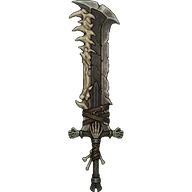
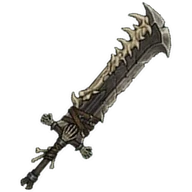
Forja: arte própria das armas de 2★ e do Grizzharn (15 partes × 6 categorias) e giro das peças longas para a diagonal
Claude-Session: https://claude.ai/code/session_016SswG1SZK2JExcHiYwawJu

Changed region(s): [[0.0938, 0.0, 0.9062, 1.0]]

diff --git a/src/assets/armasCriatura.ts b/src/assets/armasCriatura.ts
@@ -73,10 +73,101 @@ import img_rato_pestilento_lanca from './images/forja/armas-criatura/rato-pestil
 import img_rato_pestilento_espadaEscudo from './images/forja/armas-criatura/rato-pestilento-espadaEscudo.webp';
 import img_rato_pestilento_grimorio from './images/forja/armas-criatura/rato-pestilento-grimorio.webp';
 import img_rato_pestilento_cajado from './images/forja/armas-criatura/rato-pestilento-cajado.webp';
+import img_vargheist_principal_espadaGrande from './images/forja/armas-criatura/vargheist-principal-espadaGrande.webp';
+import img_vargheist_principal_katana from './images/forja/armas-criatura/vargheist-principal-katana.webp';
+import img_vargheist_principal_lanca from './images/forja/armas-criatura/vargheist-principal-lanca.webp';
+import img_vargheist_principal_espadaEscudo from './images/forja/armas-criatura/vargheist-principal-espadaEscudo.webp';
+import img_vargheist_principal_grimorio from './images/forja/armas-criatura/vargheist-principal-grimorio.webp';
+import img_vargheist_principal_cajado from './images/forja/armas-criatura/vargheist-principal-cajado.webp';
+import img_vargheist_vulcanico_espadaGrande from './images/forja/armas-criatura/vargheist-vulcanico-espadaGrande.webp';
+import img_vargheist_vulcanico_katana from './images/forja/armas-criatura/vargheist-vulcanico-katana.webp';
+import img_vargheist_vulcanico_lanca from './images/forja/armas-criatura/vargheist-vulcanico-lanca.webp';
+import img_vargheist_vulcanico_espadaEscudo from './images/forja/armas-criatura/vargheist-vulcanico-espadaEscudo.webp';
+import img_vargheist_vulcanico_grimorio from './images/forja/armas-criatura/vargheist-vulcanico-grimorio.webp';
+import img_vargheist_vulcanico_cajado from './images/forja/armas-criatura/vargheist-vulcanico-cajado.webp';
+import img_vargheist_albino_espadaGrande from './images/forja/armas-criatura/vargheist-albino-espadaGrande.webp';
+import img_vargheist_albino_katana from './images/forja/armas-criatura/vargheist-albino-katana.webp';
+import img_vargheist_albino_lanca from './images/forja/armas-criatura/vargheist-albino-lanca.webp';
+import img_vargheist_albino_espadaEscudo from './images/forja/armas-criatura/vargheist-albino-espadaEscudo.webp';
+import img_vargheist_albino_grimorio from './images/forja/armas-criatura/vargheist-albino-grimorio.webp';
+import img_vargheist_albino_cajado from './images/forja/armas-criatura/vargheist-albino-cajado.webp';
+import img_noctyrr_principal_espadaGrande from './images/forja/armas-criatura/noctyrr-principal-espadaGrande.webp';
+import img_noctyrr_principal_katana from './images/forja/armas-criatura/noctyrr-principal-katana.webp';
+import img_noctyrr_principal_lanca from './images/forja/armas-criatura/noctyrr-principal-lanca.webp';
+import img_noctyrr_principal_espadaEscudo from './images/forja/armas-criatura/noctyrr-principal-espadaEscudo.webp';
+import img_noctyrr_principal_grimorio from './images/forja/armas-criatura/noctyrr-principal-grimorio.webp';
+import img_noctyrr_principal_cajado from './images/forja/armas-criatura/noctyrr-principal-cajado.webp';
+import img_noctyrr_tempestuoso_espadaGrande from './images/forja/armas-criatura/noctyrr-tempestuoso-espadaGrande.webp';
+import img_noctyrr_tempestuoso_katana from './images/forja/armas-criatura/noctyrr-tempestuoso-katana.webp';
+import img_noctyrr_tempestuoso_lanca from './images/forja/armas-criatura/noctyrr-tempestuoso-lanca.webp';
+import img_noctyrr_tempestuoso_espadaEscudo from './images/forja/armas-criatura/noctyrr-tempestuoso-espadaEscudo.webp';
+import img_noctyrr_tempestuoso_grimorio from './images/forja/armas-criatura/noctyrr-tempestuoso-grimorio.webp';
+import img_noctyrr_tempestuoso_cajado from './images/forja/armas-criatura/noctyrr-tempestuoso-cajado.webp';
+import img_noctyrr_abissal_espadaGrande from './images/forja/armas-criatura/noctyrr-abissal-espadaGrande.webp';
+import img_noctyrr_abissal_katana from './images/forja/armas-criatura/noctyrr-abissal-katana.webp';
+import img_noctyrr_abissal_lanca from './images/forja/armas-criatura/noctyrr-abissal-lanca.webp';
+import img_noctyrr_abissal_espadaEscudo from './images/forja/armas-criatura/noctyrr-abissal-espadaEscudo.webp';
+import img_noctyrr_abissal_grimorio from './images/forja/armas-criatura/noctyrr-abissal-grimorio.webp';
+import img_noctyrr_abissal_cajado from './images/forja/armas-criatura/noctyrr-abissal-cajado.webp';
+import img_murdrax_principal_espadaGrande from './images/forja/armas-criatura/murdrax-principal-espadaGrande.webp';
+import img_murdrax_principal_katana from './images/forja/armas-criatura/murdrax-principal-katana.webp';
+import img_murdrax_principal_lanca from './images/forja/armas-criatura/murdrax-principal-lanca.webp';
+import img_murdrax_principal_espadaEscudo from './images/forja/armas-criatura/murdrax-principal-espadaEscudo.webp';
+import img_murdrax_principal_grimorio from './images/forja/armas-criatura/murdrax-principal-grimorio.webp';
+import img_murdrax_principal_cajado from './images/forja/armas-criatura/murdrax-principal-cajado.webp';
+import img_murdrax_corrosivo_espadaGrande from './images/forja/armas-criatura/murdrax-corrosivo-espadaGrande.webp';
+import img_murdrax_corrosivo_katana from './images/forja/armas-criatura/murdrax-corrosivo-katana.webp';
+import img_murdrax_corrosivo_lanca from './images/forja/armas-criatura/murdrax-corrosivo-lanca.webp';
+import img_murdrax_corrosivo_espadaEscudo from './images/forja/armas-criatura/murdrax-corrosivo-espadaEscudo.webp';
+import img_murdrax_corrosivo_grimorio from './images/forja/armas-criatura/murdrax-corrosivo-grimorio.webp';
+import img_murdrax_corrosivo_cajado from './images/forja/armas-criatura/murdrax-corrosivo-cajado.webp';
+import img_murdrax_basalto_espadaGrande from './images/forja/armas-criatura/murdrax-basalto-espadaGrande.webp';
+import img_murdrax_basalto_katana from './images/forja/armas-criatura/murdrax-basalto-katana.webp';
+import img_murdrax_basalto_lanca from './images/forja/armas-criatura/murdrax-basalto-lanca.webp';
+import img_murdrax_basalto_espadaEscudo from './images/forja/armas-criatura/murdrax-basalto-espadaEscudo.webp';
+import img_murdrax_basalto_grimorio from './images/forja/armas-criatura/murdrax-basalto-grimorio.webp';
+import img_murdrax_basalto_cajado from './images/forja/armas-criatura/murdrax-basalto-cajado.webp';
+import img_alfa_principal_espadaGrande from './images/forja/armas-criatura/alfa-principal-espadaGrande.webp';
+import img_alfa_principal_katana from './images/forja/armas-criatura/alfa-principal-katana.webp';
+import img_alfa_principal_lanca from './images/forja/armas-criatura/alfa-principal-lanca.webp';
+import img_alfa_principal_espadaEscudo from './images/forja/armas-criatura/alfa-principal-espadaEscudo.webp';
+import img_alfa_principal_grimorio from './images/forja/armas-criatura/alfa-principal-grimorio.webp';
+import img_alfa_principal_cajado from './images/forja/armas-criatura/alfa-principal-cajado.webp';
+import img_alfa_carmesim_espadaGrande from './images/forja/armas-criatura/alfa-carmesim-espadaGrande.webp';
+import img_alfa_carmesim_katana from './images/forja/armas-criatura/alfa-carmesim-katana.webp';
+import img_alfa_carmesim_lanca from './images/forja/armas-criatura/alfa-carmesim-lanca.webp';
+import img_alfa_carmesim_espadaEscudo from './images/forja/armas-criatura/alfa-carmesim-espadaEscudo.webp';
+import img_alfa_carmesim_grimorio from './images/forja/armas-criatura/alfa-carmesim-grimorio.webp';
+import img_alfa_carmesim_cajado from './images/forja/armas-criatura/alfa-carmesim-cajado.webp';
+import img_alfa_vulcanico_espadaGrande from './images/forja/armas-criatura/alfa-vulcanico-espadaGrande.webp';
+import img_alfa_vulcanico_katana from './images/forja/armas-criatura/alfa-vulcanico-katana.webp';
+import img_alfa_vulcanico_lanca from './images/forja/armas-criatura/alfa-vulcanico-lanca.webp';
+import img_alfa_vulcanico_espadaEscudo from './images/forja/armas-criatura/alfa-vulcanico-espadaEscudo.webp';
+import img_alfa_vulcanico_grimorio from './images/forja/armas-criatura/alfa-vulcanico-grimorio.webp';
+import img_alfa_vulcanico_cajado from './images/forja/armas-criatura/alfa-vulcanico-cajado.webp';
+import img_grizzharn_principal_espadaGrande from './images/forja/armas-criatura/grizzharn-principal-espadaGrande.webp';
+import img_grizzharn_principal_katana from './images/forja/armas-criatura/grizzharn-principal-katana.webp';
+import img_grizzharn_principal_lanca from './images/forja/armas-criatura/grizzharn-principal-lanca.webp';
+import img_grizzharn_principal_espadaEscudo from './images/forja/armas-criatura/grizzharn-principal-espadaEscudo.webp';
+import img_grizzharn_principal_grimorio from './images/forja/armas-criatura/grizzharn-principal-grimorio.webp';
+import img_grizzharn_principal_cajado from './images/forja/armas-criatura/grizzharn-principal-cajado.webp';
+import img_grizzharn_glacial_espadaGrande from './images/forja/armas-criatura/grizzharn-glacial-espadaGrande.webp';
+import img_grizzharn_glacial_katana from './images/forja/armas-criatura/grizzharn-glacial-katana.webp';
+import img_grizzharn_glacial_lanca from './images/forja/armas-criatura/grizzharn-glacial-lanca.webp';
+import img_grizzharn_glacial_espadaEscudo from './images/forja/armas-criatura/grizzharn-glacial-espadaEscudo.webp';
+import img_grizzharn_glacial_grimorio from './images/forja/armas-criatura/grizzharn-glacial-grimorio.webp';
+import img_grizzharn_glacial_cajado from './images/forja/armas-criatura/grizzharn-glacial-cajado.webp';
+import img_grizzharn_ancestral_espadaGrande from './images/forja/armas-criatura/grizzharn-ancestral-espadaGrande.webp';
+import img_grizzharn_ancestral_katana from './images/forja/armas-criatura/grizzharn-ancestral-katana.webp';
+import img_grizzharn_ancestral_lanca from './images/forja/armas-criatura/grizzharn-ancestral-lanca.webp';
+import img_grizzharn_ancestral_espadaEscudo from './images/forja/armas-criatura/grizzharn-ancestral-espadaEscudo.webp';
+import img_grizzharn_ancestral_grimorio from './images/forja/armas-criatura/grizzharn-ancestral-grimorio.webp';
+import img_grizzharn_ancestral_cajado from './images/forja/armas-criatura/grizzharn-ancestral-cajado.webp';
 
 /**
  * A arte de cada arma, por criatura e parte (o principal ou a subespécie) e por categoria. As duas armas da mesma parte
- * usam a mesma arte por enquanto (decisão provisória, a confirmar). As armas de 2★ em diante usam o ícone da categoria.
+ * usam a mesma arte por enquanto (decisão provisória, a confirmar). Prontas: 1★, 2★ e o Grizzharn (3★); as demais
+ * armas usam o ícone da categoria.
  */
 const ARTE: Readonly<Record<string, Readonly<Record<CategoriaArma, string>>>> = {
   'urso-gigante:principal': { espadaGrande: srcDaImagem(img_urso_principal_espadaGrande), katana: srcDaImagem(img_urso_principal_katana), lanca: srcDaImagem(img_urso_principal_lanca), espadaEscudo: srcDaImagem(img_urso_principal_espadaEscudo), grimorio: srcDaImagem(img_urso_principal_grimorio), cajado: srcDaImagem(img_urso_principal_cajado) },
@@ -91,6 +182,21 @@ const ARTE: Readonly<Record<string, Readonly<Record<CategoriaArma, string>>>> = 
   'rato-da-floresta:principal': { espadaGrande: srcDaImagem(img_rato_principal_espadaGrande), katana: srcDaImagem(img_rato_principal_katana), lanca: srcDaImagem(img_rato_principal_lanca), espadaEscudo: srcDaImagem(img_rato_principal_espadaEscudo), grimorio: srcDaImagem(img_rato_principal_grimorio), cajado: srcDaImagem(img_rato_principal_cajado) },
   'rato-da-floresta:rato-das-cinzas': { espadaGrande: srcDaImagem(img_rato_cinzas_espadaGrande), katana: srcDaImagem(img_rato_cinzas_katana), lanca: srcDaImagem(img_rato_cinzas_lanca), espadaEscudo: srcDaImagem(img_rato_cinzas_espadaEscudo), grimorio: srcDaImagem(img_rato_cinzas_grimorio), cajado: srcDaImagem(img_rato_cinzas_cajado) },
   'rato-da-floresta:rato-pestilento': { espadaGrande: srcDaImagem(img_rato_pestilento_espadaGrande), katana: srcDaImagem(img_rato_pestilento_katana), lanca: srcDaImagem(img_rato_pestilento_lanca), espadaEscudo: srcDaImagem(img_rato_pestilento_espadaEscudo), grimorio: srcDaImagem(img_rato_pestilento_grimorio), cajado: srcDaImagem(img_rato_pestilento_cajado) },
+  'vargheist:principal': { espadaGrande: srcDaImagem(img_vargheist_principal_espadaGrande), katana: srcDaImagem(img_vargheist_principal_katana), lanca: srcDaImagem(img_vargheist_principal_lanca), espadaEscudo: srcDaImagem(img_vargheist_principal_espadaEscudo), grimorio: srcDaImagem(img_vargheist_principal_grimorio), cajado: srcDaImagem(img_vargheist_principal_cajado) },
+  'vargheist:vargheist-vulcanico': { espadaGrande: srcDaImagem(img_vargheist_vulcanico_espadaGrande), katana: srcDaImagem(img_vargheist_vulcanico_katana), lanca: srcDaImagem(img_vargheist_vulcanico_lanca), espadaEscudo: srcDaImagem(img_vargheist_vulcanico_espadaEscudo), grimorio: srcDaImagem(img_vargheist_vulcanico_grimorio), cajado: srcDaImagem(img_vargheist_vulcanico_cajado) },
+  'vargheist:vargheist-albino': { espadaGrande: srcDaImagem(img_vargheist_albino_espadaGrande), katana: srcDaImagem(img_vargheist_albino_katana), lanca: srcDaImagem(img_vargheist_albino_lanca), espadaEscudo: srcDaImagem(img_vargheist_albino_espadaEscudo), grimorio: srcDaImagem(img_vargheist_albino_grimorio), cajado: srcDaImagem(img_vargheist_albino_cajado) },
+  'noctyrr:principal': { espadaGrande: srcDaImagem(img_noctyrr_principal_espadaGrande), katana: srcDaImagem(img_noctyrr_principal_katana), lanca: srcDaImagem(img_noctyrr_principal_lanca), espadaEscudo: srcDaImagem(img_noctyrr_principal_espadaEscudo), grimorio: srcDaImagem(img_noctyrr_principal_grimorio), cajado: srcDaImagem(img_noctyrr_principal_cajado) },
+  'noctyrr:noctyrr-tempestuoso': { espadaGrande: srcDaImagem(img_noctyrr_tempestuoso_espadaGrande), katana: srcDaImagem(img_noctyrr_tempestuoso_katana), lanca: srcDaImagem(img_noctyrr_tempestuoso_lanca), espadaEscudo: srcDaImagem(img_noctyrr_tempestuoso_espadaEscudo), grimorio: srcDaImagem(img_noctyrr_tempestuoso_grimorio), cajado: srcDaImagem(img_noctyrr_tempestuoso_cajado) },
+  'noctyrr:noctyrr-abissal': { espadaGrande: srcDaImagem(img_noctyrr_abissal_espadaGrande), katana: srcDaImagem(img_noctyrr_abissal_katana), lanca: srcDaImagem(img_noctyrr_abissal_lanca), espadaEscudo: srcDaImagem(img_noctyrr_abissal_espadaEscudo), grimorio: srcDaImagem(img_noctyrr_abissal_grimorio), cajado: srcDaImagem(img_noctyrr_abissal_cajado) },
+  'murdrax:principal': { espadaGrande: srcDaImagem(img_murdrax_principal_espadaGrande), katana: srcDaImagem(img_murdrax_principal_katana), lanca: srcDaImagem(img_murdrax_principal_lanca), espadaEscudo: srcDaImagem(img_murdrax_principal_espadaEscudo), grimorio: srcDaImagem(img_murdrax_principal_grimorio), cajado: srcDaImagem(img_murdrax_principal_cajado) },
+  'murdrax:murdrax-corrosivo': { espadaGrande: srcDaImagem(img_murdrax_corrosivo_espadaGrande), katana: srcDaImagem(img_murdrax_corrosivo_katana), lanca: srcDaImagem(img_murdrax_corrosivo_lanca), espadaEscudo: srcDaImagem(img_murdrax_corrosivo_espadaEscudo), grimorio: srcDaImagem(img_murdrax_corrosivo_grimorio), cajado: srcDaImagem(img_murdrax_corrosivo_cajado) },
+  'murdrax:murdrax-de-basalto': { espadaGrande: srcDaImagem(img_murdrax_basalto_espadaGrande), katana: srcDaImagem(img_murdrax_basalto_katana), lanca: srcDaImagem(img_murdrax_basalto_lanca), espadaEscudo: srcDaImagem(img_murdrax_basalto_espadaEscudo), grimorio: srcDaImagem(img_murdrax_basalto_grimorio), cajado: srcDaImagem(img_murdrax_basalto_cajado) },
+  'vargheist-alfa:principal': { espadaGrande: srcDaImagem(img_alfa_principal_espadaGrande), katana: srcDaImagem(img_alfa_principal_katana), lanca: srcDaImagem(img_alfa_principal_lanca), espadaEscudo: srcDaImagem(img_alfa_principal_espadaEscudo), grimorio: srcDaImagem(img_alfa_principal_grimorio), cajado: srcDaImagem(img_alfa_principal_cajado) },
+  'vargheist-alfa:vargheist-alfa-carmesim': { espadaGrande: srcDaImagem(img_alfa_carmesim_espadaGrande), katana: srcDaImagem(img_alfa_carmesim_katana), lanca: srcDaImagem(img_alfa_carmesim_lanca), espadaEscudo: srcDaImagem(img_alfa_carmesim_espadaEscudo), grimorio: srcDaImagem(img_alfa_carmesim_grimorio), cajado: srcDaImagem(img_alfa_carmesim_cajado) },
+  'vargheist-alfa:vargheist-alfa-vulcanico': { espadaGrande: srcDaImagem(img_alfa_vulcanico_espadaGrande), katana: srcDaImagem(img_alfa_vulcanico_katana), lanca: srcDaImagem(img_alfa_vulcanico_lanca), espadaEscudo: srcDaImagem(img_alfa_vulcanico_espadaEscudo), grimorio: srcDaImagem(img_alfa_vulcanico_grimorio), cajado: srcDaImagem(img_alfa_vulcanico_cajado) },
+  'grizzharn:principal': { espadaGrande: srcDaImagem(img_grizzharn_principal_espadaGrande), katana: srcDaImagem(img_grizzharn_principal_katana), lanca: srcDaImagem(img_grizzharn_principal_lanca), espadaEscudo: srcDaImagem(img_grizzharn_principal_espadaEscudo), grimorio: srcDaImagem(img_grizzharn_principal_grimorio), cajado: srcDaImagem(img_grizzharn_principal_cajado) },
+  'grizzharn:grizzharn-glacial': { espadaGrande: srcDaImagem(img_grizzharn_glacial_espadaGrande), katana: srcDaImagem(img_grizzharn_glacial_katana), lanca: srcDaImagem(img_grizzharn_glacial_lanca), espadaEscudo: srcDaImagem(img_grizzharn_glacial_espadaEscudo), grimorio: srcDaImagem(img_grizzharn_glacial_grimorio), cajado: srcDaImagem(img_grizzharn_glacial_cajado) },
+  'grizzharn:grizzharn-ancestral': { espadaGrande: srcDaImagem(img_grizzharn_ancestral_espadaGrande), katana: srcDaImagem(img_grizzharn_ancestral_katana), lanca: srcDaImagem(img_grizzharn_ancestral_lanca), espadaEscudo: srcDaImagem(img_grizzharn_ancestral_espadaEscudo), grimorio: srcDaImagem(img_grizzharn_ancestral_grimorio), cajado: srcDaImagem(img_grizzharn_ancestral_cajado) },
 };
 
 export function arteDaArma(baseId: string | undefined, categoria: CategoriaArma): string | null {

diff --git a/src/assets/__tests__/forjaItens.test.ts b/src/assets/__tests__/forjaItens.test.ts
@@ -15,14 +15,14 @@ describe('ícones da Forja', () => {
   });
 });
 
-describe('arte das armas de criatura (1★)', () => {
-  it('toda arma de 1★ tem arte nas 6 categorias', async () => {
+describe('arte das armas de criatura (1★, 2★ e Grizzharn)', () => {
+  it('toda arma de 1★, de 2★ e do Grizzharn tem arte nas 6 categorias', async () => {
     const { arteDaArma } = await import('@/assets/armasCriatura');
     const { ARMAS_BASE } = await import('@/rules/armasCatalogo');
     const cats = ['espadaGrande', 'katana', 'lanca', 'espadaEscudo', 'grimorio', 'cajado'] as const;
-    const sem = ARMAS_BASE.filter((a) => a.estrela === 1).flatMap((a) => cats.filter((c) => !arteDaArma(a.id, c)).map((c) => `${a.id}:${c}`));
+    const sem = ARMAS_BASE.filter((a) => a.estrela <= 2 || a.monstroId === 'grizzharn').flatMap((a) => cats.filter((c) => !arteDaArma(a.id, c)).map((c) => `${a.id}:${c}`));
     expect(sem).toEqual([]);
-    const arma2 = ARMAS_BASE.find((a) => a.estrela === 2);
-    expect(arma2 && arteDaArma(arma2.id, 'katana')).toBeNull();
+    const outra = ARMAS_BASE.find((a) => a.estrela === 4);
+    expect(outra && arteDaArma(outra.id, 'katana')).toBeNull();
   });
 });
